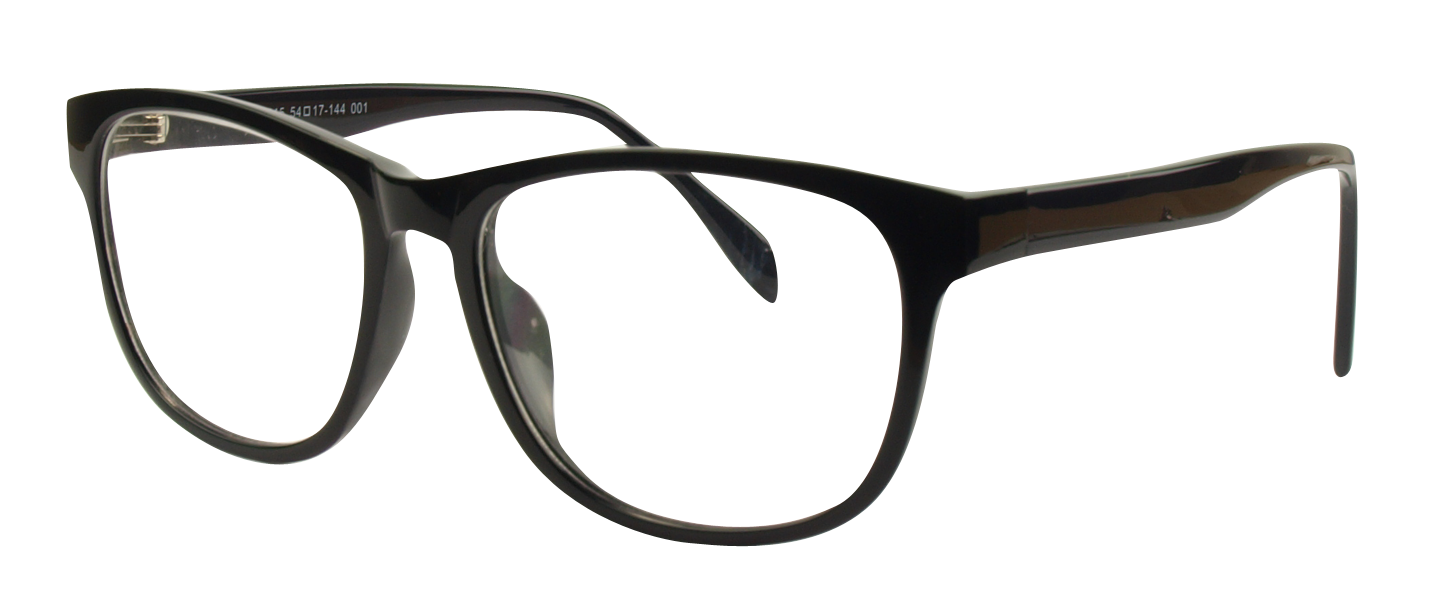
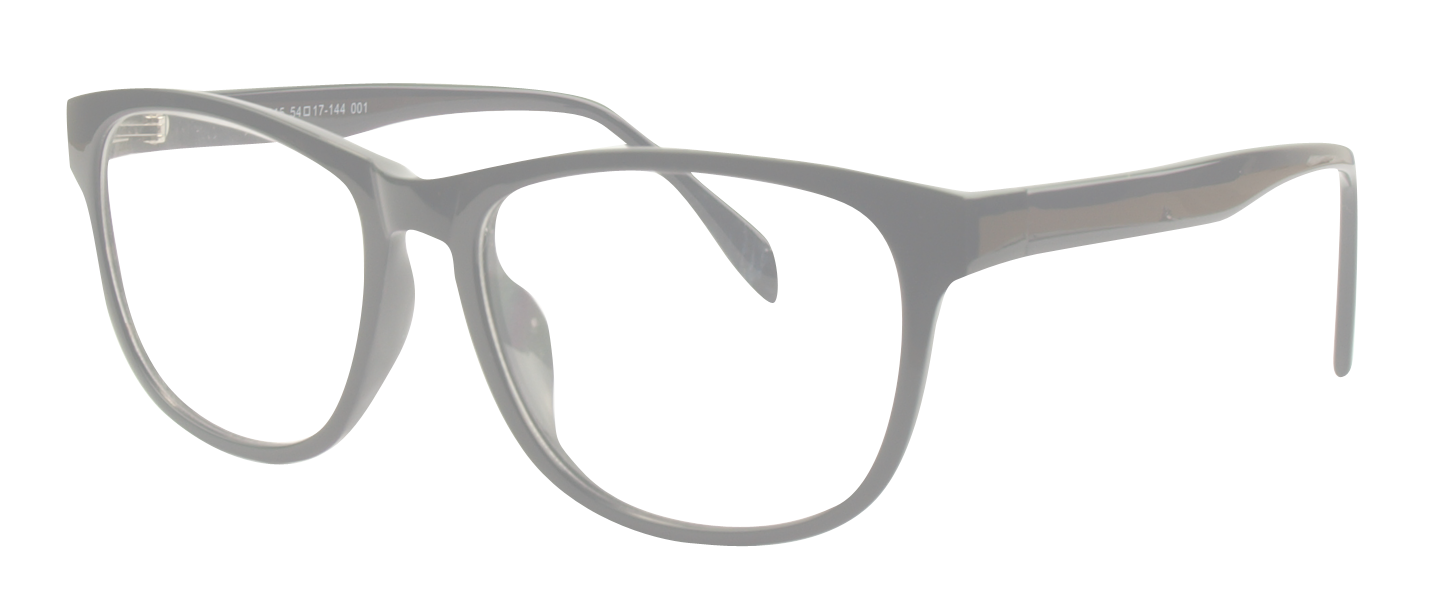
changed background opacity

Changed region(s): [[0.0312, 0.12, 0.9688, 0.93]]

diff --git a/main.css b/main.css
@@ -5,10 +5,10 @@
 
 body {
 	background-color: #aaa;
-	background-image: url(glasses_img.png);
+	background-image: url("glasses_img.png");
 	background-repeat: no-repeat;
-	/*background-size: 80% 80%;*/
-	background-position: 50% 200px;
+	background-position: 85% 250px;
+	background-size: 1082.7px 451.1px;
 	font-family: "roboto-italic";
 	font-size: 25px;
 	text-align: center; 
@@ -83,4 +83,8 @@ a {
 .links {
 	text-align: left;
 	margin-left: 166px;
+}
+
+.background {
+	opacity: 0.5;
 }

diff --git a/index.html b/index.html
@@ -8,7 +8,9 @@
 <body>
 	<h1 class="title">Base de datos</h1>
 	<hr>
+
 	<div class="container">
+		
 		<br>
 		<h4>Buscar : </h4>
 		<br>
@@ -28,7 +30,6 @@
 	    </a>
 	    <br>
 	</div>
-
 	<footer>Creado por Ezequiel Romio&nbsp; &nbsp; &nbsp; &nbsp; </footer>
 </body>
 </html>
